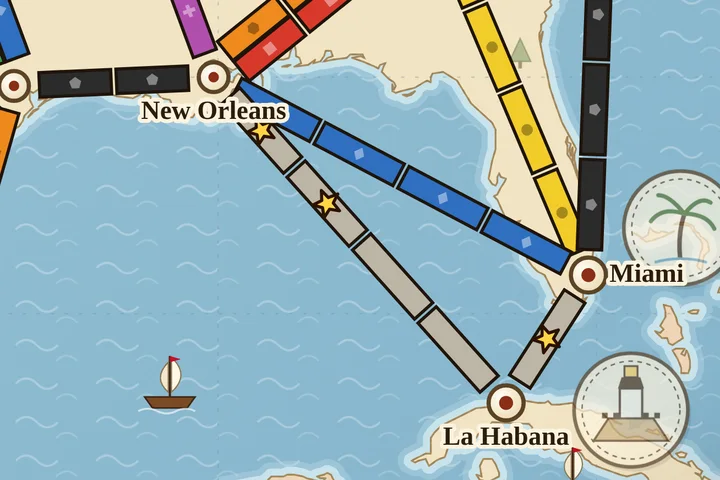
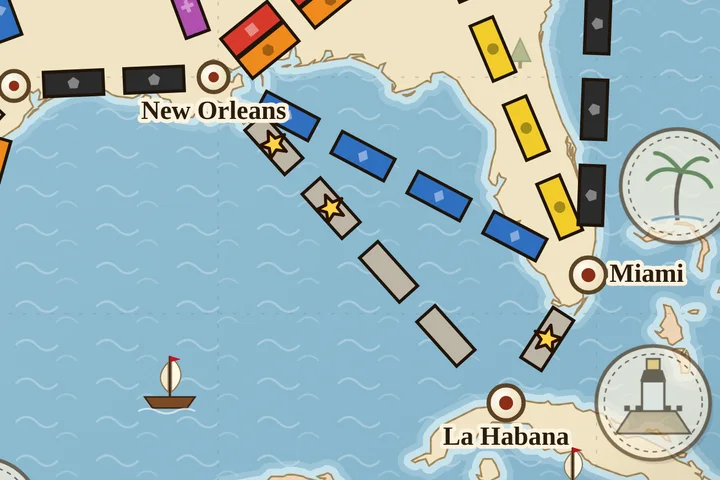
Đường Ray: mọi ô tuyến cùng cỡ, tuyến ngắn/đi qua thành phố khác được uốn cong không đè nhau; chụp lại ảnh luật
Claude-Session: https://claude.ai/code/session_01C6iMujCmX6wKKq45Tr3EAE

diff --git a/games/duong-ray-bac-my/index.html b/games/duong-ray-bac-my/index.html
@@ -1901,13 +1901,64 @@ const LANDMARKS_NA = {
 };
 const LANDMARKS = MAP_ID==='na' ? LANDMARKS_NA : LANDMARKS_EU;
 
+/* ===== Hình học tuyến: mọi ô cùng cỡ; tuyến ngắn hoặc đi xuyên qua thành phố khác sẽ uốn cong ===== */
+const RG_BOX=34, RG_PITCH=37, RG_PAD=11;
+function rgPitch(g,len){ return Math.max(RG_PITCH, Math.min((g.d-2*RG_PAD)/len, RG_PITCH+12)); }
+let RG_CACHE={}, RG_KEY='';
+function rgBase(a,b,h){ /* đường cong bậc 2 từ a sang b, lệch vuông góc h tại giữa */
+  const A=CITIES[a],B=CITIES[b]; const dx=B.x-A.x,dy=B.y-A.y,d=Math.hypot(dx,dy)||1; const nx=-dy/d, ny=dx/d;
+  const cx=(A.x+B.x)/2+nx*h*2, cy=(A.y+B.y)/2+ny*h*2; const N=48, P=[];
+  for(let i=0;i<=N;i++){ const t=i/N, u=1-t; P.push([u*u*A.x+2*u*t*cx+t*t*B.x, u*u*A.y+2*u*t*cy+t*t*B.y]); }
+  return P; }
+function rgLen(P){ let L=0; for(let i=1;i<P.length;i++) L+=Math.hypot(P[i][0]-P[i-1][0],P[i][1]-P[i-1][1]); return L; }
+function rgClear(P,a,b){ let m=1e9; CITIES.forEach((c,i)=>{ if(i===a||i===b) return;
+    const w=c.name.length*8, lx=c.anchor==='start'?c.x+c.dx:c.anchor==='end'?c.x+c.dx-w:c.x+c.dx-w/2, ly=c.y+c.dy-12;
+    for(const p of P){ const dd=Math.hypot(p[0]-c.x,p[1]-c.y); if(dd<m) m=dd;
+      const qx=Math.max(lx,Math.min(p[0],lx+w)), qy=Math.max(ly,Math.min(p[1],ly+16)); const dl=Math.hypot(p[0]-qx,p[1]-qy)+14; if(dl<m) m=dl; } }); return m; }
+function rgShape(a,b,len){
+  const k=Math.min(a,b)+'-'+Math.max(a,b)+'-'+len; if (RG_CACHE[k]) return RG_CACHE[k];
+  const lo=Math.min(a,b), hi=Math.max(a,b); /* tính theo chiều cố định để 2 làn đường đôi giống nhau */
+  const need=len*RG_PITCH+2*RG_PAD;
+  let best={h:0}; const straight=rgBase(lo,hi,0);
+  if (rgLen(straight)<need || rgClear(straight,lo,hi)<22){
+    let cand=null;
+    for (const sg of [1,-1]){ let h=0, P=straight;
+      for(let it=0;it<60;it++){ if(rgLen(P)>=need && rgClear(P,lo,hi)>=36) break; h+=sg*1.5; P=rgBase(lo,hi,h); }
+      const sc=rgClear(P,lo,hi)-Math.abs(h)*.15; if(!cand||sc>cand.sc) cand={h,sc}; }
+    best={h:cand.h}; }
+  return RG_CACHE[k]={h:best.h, lo, hi}; }
+function routeGeom(r){
+  const key=MAP_W+':'+CITIES.map(c=>c.x+','+c.y).join(';'); if(key!==RG_KEY){ RG_KEY=key; RG_CACHE={}; }
+  const sh=rgShape(r.a,r.b,r.len); let P=rgBase(sh.lo,sh.hi,sh.h); if (sh.lo!==r.a) P=P.slice().reverse();
+  const off=(r.lane||0)*7.5*(sh.lo===r.a?1:-1); /* giữ cùng phía như cũ */
+  if (off){ P=P.map((p,i)=>{ const q=P[Math.min(P.length-1,i+1)], o=P[Math.max(0,i-1)]; const tx=q[0]-o[0], ty=q[1]-o[1], tl=Math.hypot(tx,ty)||1; return [p[0]-ty/tl*off, p[1]+tx/tl*off]; }); }
+  const cum=[0]; for(let i=1;i<P.length;i++) cum.push(cum[i-1]+Math.hypot(P[i][0]-P[i-1][0],P[i][1]-P[i-1][1]));
+  const d=cum[cum.length-1];
+  const at=s=>{ s=Math.max(0,Math.min(d,s)); let i=1; while(i<cum.length-1&&cum[i]<s) i++; const t=(s-cum[i-1])/((cum[i]-cum[i-1])||1); const x=P[i-1][0]+(P[i][0]-P[i-1][0])*t, y=P[i-1][1]+(P[i][1]-P[i-1][1])*t; return {x,y,ang:Math.atan2(P[i][1]-P[i-1][1],P[i][0]-P[i-1][0])*180/Math.PI}; };
+  const path=(s0,s1)=>{ const n=Math.max(2,Math.ceil((s1-s0)/6)); let o=''; for(let k=0;k<=n;k++){ const q=at(s0+(s1-s0)*k/n); o+=(k?'L':'M')+q.x.toFixed(1)+','+q.y.toFixed(1); } return o; };
+  const A=at(0), B=at(d); const dx=B.x-A.x, dy=B.y-A.y, dd=Math.hypot(dx,dy)||1;
+  return {ax:A.x, ay:A.y, ux:dx/dd, uy:dy/dd, d, ang:Math.atan2(dy,dx)*180/Math.PI, at, path, curved:!!sh.h}; }
+function trainRun(r, color){ if (FXMODE==='off') return;
+  const layer=document.getElementById('fxl'); if(!layer) return;
+  const g=routeGeom(r); const loco=svgEl('g',{});
+  loco.innerHTML=`<g transform="scale(.9)"><rect x="-14" y="-7" width="20" height="14" rx="6" fill="${color}" stroke="#111" stroke-width="1.4"/><rect x="4" y="-9" width="10" height="18" rx="2" fill="${shade(color,-.3)}" stroke="#111" stroke-width="1.4"/>
+    <rect x="-10" y="-12" width="5" height="6" fill="#222"/><path d="M-14,-6 L-21,0 L-14,6Z" fill="#c9a227" stroke="#111"/><circle cx="-16" cy="0" r="2.2" fill="#fff6a0"/><rect x="7" y="-5" width="4" height="4" fill="#ffe9a8"/></g>`;
+  layer.appendChild(loco);
+  const t0=performance.now(); let lastPuff=0;
+  const step=now=>{
+    const k=Math.min(1,(now-t0)/TRAIN_RUN_MS); const e=k<.5?2*k*k:1-Math.pow(-2*k+2,2)/2; const q=g.at(13+(g.d-26)*e);
+    loco.setAttribute('transform',`translate(${q.x.toFixed(1)},${q.y.toFixed(1)}) rotate(${(q.ang+180).toFixed(1)})`);
+    if(now-lastPuff>70 && k<1){ lastPuff=now; const p=svgEl('circle',{cx:q.x.toFixed(1),cy:(q.y-8).toFixed(1),r:4+Math.random()*3,class:'puff'}); layer.appendChild(p); setTimeout(()=>p.remove(),1300); }
+    if(k<1) requestAnimationFrame(step); else { loco.style.transition='opacity .5s'; loco.style.opacity='0'; setTimeout(()=>loco.remove(),600); }
+  };
+  requestAnimationFrame(step);
+}
 /* Tìm chỗ đặt huy hiệu công trình không đè lên đường ray, thành phố, tên thành phố; không có chỗ thì bỏ */
 let LM_POS={}, LM_KEY='';
 function lmFree(cx,cy,R,placed){
   if (cx<R+4||cy<R+4||cx>MAP_W-R-4||cy>MAP_H-R-4) return false;
   const segD=(px,py,ax,ay,bx,by)=>{const dx=bx-ax,dy=by-ay,L=dx*dx+dy*dy;let t=L?((px-ax)*dx+(py-ay)*dy)/L:0;t=Math.max(0,Math.min(1,t));return Math.hypot(px-ax-t*dx,py-ay-t*dy);};
-  for (const r of ROUTES){ const A=CITIES[r.a],B=CITIES[r.b]; const d=Math.hypot(B.x-A.x,B.y-A.y)||1; const nx=-(B.y-A.y)/d, ny=(B.x-A.x)/d, o=(r.lane||0)*7.5;
-    if (segD(cx,cy,A.x+nx*o,A.y+ny*o,B.x+nx*o,B.y+ny*o) < R+19) return false; }
+  for (const r of ROUTES){ const g=routeGeom(r); for(let s=0;s<=g.d;s+=8){ const q=g.at(s); if (Math.hypot(cx-q.x,cy-q.y) < R+12) return false; } }
   for (const C of CITIES){ if (Math.hypot(cx-C.x,cy-C.y) < R+16) return false;
     const w=C.name.length*8.2, lx=C.anchor==='start'?C.x+C.dx:C.anchor==='end'?C.x+C.dx-w:C.x+C.dx-w/2, ly=C.y+C.dy-13;
     const qx=Math.max(lx,Math.min(cx,lx+w)), qy=Math.max(ly,Math.min(cy,ly+17)); if (Math.hypot(cx-qx,cy-qy) < R+5) return false; }
@@ -2113,19 +2164,19 @@ function routeSym(k,col){
   return k==='loco' ? `<g fill="${f}" stroke="#2a1200" stroke-width=".9" stroke-linejoin="round" pointer-events="none" transform="scale(1.95)">${d}</g>` : `<g fill="${f}" opacity="${o}" pointer-events="none">${d}</g>`;
 }
 function routeSVG(r, afford, now){
-  const g=routeGeom(r); const pad=13; const seg=(g.d-2*pad)/r.len; const w=Math.max(6,seg-3);
+  const g=routeGeom(r); const pad=13; const seg=(g.d-2*pad)/r.len; const w=RG_BOX;
   const owner=G.owner[r.id]; const canClick = owner==null && isMyTurn() && !UIS.stationMode;
   const t=UIS.claimAt[r.id]; const el = t!=null ? now-t : 1e9; const fresh = el<2600 && G.owner[r.id]!=null;
   let s=`<g class="route ${canClick?'clickable':''} ${afford.has(r.id)?'afford':''} ${fresh?'glow':''}" data-id="${r.id}" ${fresh?`style="--gc:${G.players[owner].color};animation-delay:${-el}ms"`:''}>`;
-  s+=`<line x1="${g.ax+g.ux*pad}" y1="${g.ay+g.uy*pad}" x2="${g.ax+g.ux*(g.d-pad)}" y2="${g.ay+g.uy*(g.d-pad)}" stroke="transparent" stroke-width="${HIT_W}"/>`;
+  s+=`<path d="${g.path(pad,g.d-pad)}" fill="none" stroke="transparent" stroke-width="${HIT_W}"/>`;
   const DK = .68; /* mọi đoàn tàu cùng cỡ, vừa làn đường đôi */
-  if (owner!=null){ const x1=(g.ax+g.ux*(pad+2)).toFixed(1), y1=(g.ay+g.uy*(pad+2)).toFixed(1), x2=(g.ax+g.ux*(g.d-pad-2)).toFixed(1), y2=(g.ay+g.uy*(g.d-pad-2)).toFixed(1);
-    s+=`<g class="${fresh?'pop':''}" pointer-events="none"><line x1="${x1}" y1="${y1}" x2="${x2}" y2="${y2}" stroke="#fff" stroke-width="17" stroke-linecap="round" opacity=".95"/><line x1="${x1}" y1="${y1}" x2="${x2}" y2="${y2}" stroke="#111" stroke-width="${(24*DK).toFixed(1)}" stroke-linecap="round"/><line x1="${x1}" y1="${y1}" x2="${x2}" y2="${y2}" stroke="${G.players[owner].color}" stroke-width="6" stroke-linecap="round" opacity=".55"/></g>`; }
+  if (owner!=null){ const PT=rgPitch(g,r.len); const pd=g.path(g.d/2-(r.len*PT)/2+2, g.d/2+(r.len*PT)/2-2);
+    s+=`<g class="${fresh?'pop':''}" pointer-events="none"><path d="${pd}" fill="none" stroke="#fff" stroke-width="17" stroke-linecap="round" opacity=".95"/><path d="${pd}" fill="none" stroke="#111" stroke-width="${(24*DK).toFixed(1)}" stroke-linecap="round"/><path d="${pd}" fill="none" stroke="${G.players[owner].color}" stroke-width="6" stroke-linecap="round" opacity=".55"/></g>`; }
   for (let i=0;i<r.len;i++){
-    const tt=pad+seg*(i+0.5); const cx=(g.ax+g.ux*tt).toFixed(1), cy=(g.ay+g.uy*tt).toFixed(1);
-    s+=`<g transform="translate(${cx},${cy}) rotate(${g.ang.toFixed(1)})">`;
+    const tt=g.d/2+(i+0.5-r.len/2)*rgPitch(g,r.len); const q=g.at(tt); const cx=q.x.toFixed(1), cy=q.y.toFixed(1); let ga=q.ang; if(ga>90) ga-=180; if(ga<-90) ga+=180;
+    s+=`<g transform="translate(${cx},${cy}) rotate(${ga.toFixed(1)})">`;
     if (owner!=null){
-      const col=G.players[owner].color, h=19*DK, W=seg-1.5, win=Math.min(6,W/4.5)*(DK<1?.8:1);
+      const col=G.players[owner].color, h=19*DK, W=RG_BOX+1, win=Math.min(6,W/4.5)*(DK<1?.8:1);
       const delay = fresh ? ((i+.5)/r.len*TRAIN_RUN_MS - el) : 0;
       s+=`<g class="${fresh?'pop':''}" ${fresh?`style="animation-delay:${delay.toFixed(0)}ms"`:''}>
         <rect x="${-W/2}" y="${-h/2}" width="${W}" height="${h}" rx="3.5" fill="${col}" stroke="#0b0b0b" stroke-width="2.6"/>
@@ -2181,8 +2232,8 @@ function beaconSVG(){
   let s=`<g class="beacons ${f.strong?'strong':''}" pointer-events="none" style="animation-delay:${-el.toFixed(0)}ms">`;
   /* các tuyến nên đi: đường ngắn nhất (tuyến của mình = 0, bỏ tuyến người khác) */
   tkPathRoutes(f.a,f.b).forEach(r=>{ const g=routeGeom(r), pad=11;
-    const x1=g.ax+g.ux*pad, y1=g.ay+g.uy*pad, x2=g.ax+g.ux*(g.d-pad), y2=g.ay+g.uy*(g.d-pad);
-    s+=`<line x1="${x1}" y1="${y1}" x2="${x2}" y2="${y2}" stroke="#22c55e" stroke-width="26" stroke-opacity=".28" class="pglow"/><line x1="${x1}" y1="${y1}" x2="${x2}" y2="${y2}" stroke="#4ade80" stroke-width="20" stroke-opacity=".0" class="pglow2"/>`; });
+    const pd=g.path(pad,g.d-pad);
+    s+=`<path d="${pd}" fill="none" stroke="#22c55e" stroke-width="26" stroke-opacity=".28" class="pglow"/><path d="${pd}" fill="none" stroke="#4ade80" stroke-width="20" stroke-opacity=".0" class="pglow2"/>`; });
   [A,B].forEach(C=>{
     s+=`<g transform="translate(${C.x},${C.y})">${[0,1,2].map(k=>`<circle r="16" fill="none" stroke="#22c55e" stroke-width="4" class="wave" style="animation-delay:${(k*450-el).toFixed(0)}ms"/>`).join('')}
       <circle r="15" fill="#22c55e" opacity=".35" class="wcore"/><circle r="9" fill="#fff" stroke="#16a34a" stroke-width="4"/></g>`;
@@ -2511,7 +2562,7 @@ function playFx(f){
     case 'cl': {
       const r=ROUTES[f.r]; const col=G.players[f.p].color; UIS.claimAt[f.r]=performance.now(); renderMap();
       trainRun(r, col); SFX.clack(r.len); Ticker.push(`${esc(who(f.p))} chiếm tuyến <b>${esc(rname(r))}</b> (+${POINTS[r.len]} điểm)`, 'claim'); if (r.len>=3) setTimeout(()=>SFX.whistle(), 350);
-      const g=routeGeom(r); const mx=g.ax+g.ux*g.d/2, my=g.ay+g.uy*g.d/2;
+      const g=routeGeom(r); const mq=g.at(g.d/2), mx=mq.x, my=mq.y;
       if (!document.body.classList.contains('portphone') && !document.body.classList.contains('landphone')) claimMsg(`<b>${esc(who(f.p))}</b> chiếm tuyến ${esc(rname(r))}`, col);
       setTimeout(()=>{ const p=FX.svgPoint(mx,my); if (p){ ptsFly(p.x,p.y,POINTS[r.len],f.p,col); if (FXMODE!=='off' && (r.len>=4 || f.p===ME)) FX.confetti(p.x,p.y, r.len>=4?50:20, [col,'#ffd36b','#fff']); } else releaseScore(f.p); }, TRAIN_RUN_MS-150);
       break; }

diff --git a/games/duong-ray-chau-au/index.html b/games/duong-ray-chau-au/index.html
@@ -1906,13 +1906,64 @@ const LANDMARKS_NA = {
 };
 const LANDMARKS = MAP_ID==='na' ? LANDMARKS_NA : LANDMARKS_EU;
 
+/* ===== Hình học tuyến: mọi ô cùng cỡ; tuyến ngắn hoặc đi xuyên qua thành phố khác sẽ uốn cong ===== */
+const RG_BOX=34, RG_PITCH=37, RG_PAD=11;
+function rgPitch(g,len){ return Math.max(RG_PITCH, Math.min((g.d-2*RG_PAD)/len, RG_PITCH+12)); }
+let RG_CACHE={}, RG_KEY='';
+function rgBase(a,b,h){ /* đường cong bậc 2 từ a sang b, lệch vuông góc h tại giữa */
+  const A=CITIES[a],B=CITIES[b]; const dx=B.x-A.x,dy=B.y-A.y,d=Math.hypot(dx,dy)||1; const nx=-dy/d, ny=dx/d;
+  const cx=(A.x+B.x)/2+nx*h*2, cy=(A.y+B.y)/2+ny*h*2; const N=48, P=[];
+  for(let i=0;i<=N;i++){ const t=i/N, u=1-t; P.push([u*u*A.x+2*u*t*cx+t*t*B.x, u*u*A.y+2*u*t*cy+t*t*B.y]); }
+  return P; }
+function rgLen(P){ let L=0; for(let i=1;i<P.length;i++) L+=Math.hypot(P[i][0]-P[i-1][0],P[i][1]-P[i-1][1]); return L; }
+function rgClear(P,a,b){ let m=1e9; CITIES.forEach((c,i)=>{ if(i===a||i===b) return;
+    const w=c.name.length*8, lx=c.anchor==='start'?c.x+c.dx:c.anchor==='end'?c.x+c.dx-w:c.x+c.dx-w/2, ly=c.y+c.dy-12;
+    for(const p of P){ const dd=Math.hypot(p[0]-c.x,p[1]-c.y); if(dd<m) m=dd;
+      const qx=Math.max(lx,Math.min(p[0],lx+w)), qy=Math.max(ly,Math.min(p[1],ly+16)); const dl=Math.hypot(p[0]-qx,p[1]-qy)+14; if(dl<m) m=dl; } }); return m; }
+function rgShape(a,b,len){
+  const k=Math.min(a,b)+'-'+Math.max(a,b)+'-'+len; if (RG_CACHE[k]) return RG_CACHE[k];
+  const lo=Math.min(a,b), hi=Math.max(a,b); /* tính theo chiều cố định để 2 làn đường đôi giống nhau */
+  const need=len*RG_PITCH+2*RG_PAD;
+  let best={h:0}; const straight=rgBase(lo,hi,0);
+  if (rgLen(straight)<need || rgClear(straight,lo,hi)<22){
+    let cand=null;
+    for (const sg of [1,-1]){ let h=0, P=straight;
+      for(let it=0;it<60;it++){ if(rgLen(P)>=need && rgClear(P,lo,hi)>=36) break; h+=sg*1.5; P=rgBase(lo,hi,h); }
+      const sc=rgClear(P,lo,hi)-Math.abs(h)*.15; if(!cand||sc>cand.sc) cand={h,sc}; }
+    best={h:cand.h}; }
+  return RG_CACHE[k]={h:best.h, lo, hi}; }
+function routeGeom(r){
+  const key=MAP_W+':'+CITIES.map(c=>c.x+','+c.y).join(';'); if(key!==RG_KEY){ RG_KEY=key; RG_CACHE={}; }
+  const sh=rgShape(r.a,r.b,r.len); let P=rgBase(sh.lo,sh.hi,sh.h); if (sh.lo!==r.a) P=P.slice().reverse();
+  const off=(r.lane||0)*7.5*(sh.lo===r.a?1:-1); /* giữ cùng phía như cũ */
+  if (off){ P=P.map((p,i)=>{ const q=P[Math.min(P.length-1,i+1)], o=P[Math.max(0,i-1)]; const tx=q[0]-o[0], ty=q[1]-o[1], tl=Math.hypot(tx,ty)||1; return [p[0]-ty/tl*off, p[1]+tx/tl*off]; }); }
+  const cum=[0]; for(let i=1;i<P.length;i++) cum.push(cum[i-1]+Math.hypot(P[i][0]-P[i-1][0],P[i][1]-P[i-1][1]));
+  const d=cum[cum.length-1];
+  const at=s=>{ s=Math.max(0,Math.min(d,s)); let i=1; while(i<cum.length-1&&cum[i]<s) i++; const t=(s-cum[i-1])/((cum[i]-cum[i-1])||1); const x=P[i-1][0]+(P[i][0]-P[i-1][0])*t, y=P[i-1][1]+(P[i][1]-P[i-1][1])*t; return {x,y,ang:Math.atan2(P[i][1]-P[i-1][1],P[i][0]-P[i-1][0])*180/Math.PI}; };
+  const path=(s0,s1)=>{ const n=Math.max(2,Math.ceil((s1-s0)/6)); let o=''; for(let k=0;k<=n;k++){ const q=at(s0+(s1-s0)*k/n); o+=(k?'L':'M')+q.x.toFixed(1)+','+q.y.toFixed(1); } return o; };
+  const A=at(0), B=at(d); const dx=B.x-A.x, dy=B.y-A.y, dd=Math.hypot(dx,dy)||1;
+  return {ax:A.x, ay:A.y, ux:dx/dd, uy:dy/dd, d, ang:Math.atan2(dy,dx)*180/Math.PI, at, path, curved:!!sh.h}; }
+function trainRun(r, color){ if (FXMODE==='off') return;
+  const layer=document.getElementById('fxl'); if(!layer) return;
+  const g=routeGeom(r); const loco=svgEl('g',{});
+  loco.innerHTML=`<g transform="scale(.9)"><rect x="-14" y="-7" width="20" height="14" rx="6" fill="${color}" stroke="#111" stroke-width="1.4"/><rect x="4" y="-9" width="10" height="18" rx="2" fill="${shade(color,-.3)}" stroke="#111" stroke-width="1.4"/>
+    <rect x="-10" y="-12" width="5" height="6" fill="#222"/><path d="M-14,-6 L-21,0 L-14,6Z" fill="#c9a227" stroke="#111"/><circle cx="-16" cy="0" r="2.2" fill="#fff6a0"/><rect x="7" y="-5" width="4" height="4" fill="#ffe9a8"/></g>`;
+  layer.appendChild(loco);
+  const t0=performance.now(); let lastPuff=0;
+  const step=now=>{
+    const k=Math.min(1,(now-t0)/TRAIN_RUN_MS); const e=k<.5?2*k*k:1-Math.pow(-2*k+2,2)/2; const q=g.at(13+(g.d-26)*e);
+    loco.setAttribute('transform',`translate(${q.x.toFixed(1)},${q.y.toFixed(1)}) rotate(${(q.ang+180).toFixed(1)})`);
+    if(now-lastPuff>70 && k<1){ lastPuff=now; const p=svgEl('circle',{cx:q.x.toFixed(1),cy:(q.y-8).toFixed(1),r:4+Math.random()*3,class:'puff'}); layer.appendChild(p); setTimeout(()=>p.remove(),1300); }
+    if(k<1) requestAnimationFrame(step); else { loco.style.transition='opacity .5s'; loco.style.opacity='0'; setTimeout(()=>loco.remove(),600); }
+  };
+  requestAnimationFrame(step);
+}
 /* Tìm chỗ đặt huy hiệu công trình không đè lên đường ray, thành phố, tên thành phố; không có chỗ thì bỏ */
 let LM_POS={}, LM_KEY='';
 function lmFree(cx,cy,R,placed){
   if (cx<R+4||cy<R+4||cx>MAP_W-R-4||cy>MAP_H-R-4) return false;
   const segD=(px,py,ax,ay,bx,by)=>{const dx=bx-ax,dy=by-ay,L=dx*dx+dy*dy;let t=L?((px-ax)*dx+(py-ay)*dy)/L:0;t=Math.max(0,Math.min(1,t));return Math.hypot(px-ax-t*dx,py-ay-t*dy);};
-  for (const r of ROUTES){ const A=CITIES[r.a],B=CITIES[r.b]; const d=Math.hypot(B.x-A.x,B.y-A.y)||1; const nx=-(B.y-A.y)/d, ny=(B.x-A.x)/d, o=(r.lane||0)*7.5;
-    if (segD(cx,cy,A.x+nx*o,A.y+ny*o,B.x+nx*o,B.y+ny*o) < R+19) return false; }
+  for (const r of ROUTES){ const g=routeGeom(r); for(let s=0;s<=g.d;s+=8){ const q=g.at(s); if (Math.hypot(cx-q.x,cy-q.y) < R+12) return false; } }
   for (const C of CITIES){ if (Math.hypot(cx-C.x,cy-C.y) < R+16) return false;
     const w=C.name.length*8.2, lx=C.anchor==='start'?C.x+C.dx:C.anchor==='end'?C.x+C.dx-w:C.x+C.dx-w/2, ly=C.y+C.dy-13;
     const qx=Math.max(lx,Math.min(cx,lx+w)), qy=Math.max(ly,Math.min(cy,ly+17)); if (Math.hypot(cx-qx,cy-qy) < R+5) return false; }
@@ -2118,19 +2169,19 @@ function routeSym(k,col){
   return k==='loco' ? `<g fill="${f}" stroke="#2a1200" stroke-width=".9" stroke-linejoin="round" pointer-events="none" transform="scale(1.95)">${d}</g>` : `<g fill="${f}" opacity="${o}" pointer-events="none">${d}</g>`;
 }
 function routeSVG(r, afford, now){
-  const g=routeGeom(r); const pad=13; const seg=(g.d-2*pad)/r.len; const w=Math.max(6,seg-3);
+  const g=routeGeom(r); const pad=13; const seg=(g.d-2*pad)/r.len; const w=RG_BOX;
   const owner=G.owner[r.id]; const canClick = owner==null && isMyTurn() && !UIS.stationMode;
   const t=UIS.claimAt[r.id]; const el = t!=null ? now-t : 1e9; const fresh = el<2600 && G.owner[r.id]!=null;
   let s=`<g class="route ${canClick?'clickable':''} ${afford.has(r.id)?'afford':''} ${fresh?'glow':''}" data-id="${r.id}" ${fresh?`style="--gc:${G.players[owner].color};animation-delay:${-el}ms"`:''}>`;
-  s+=`<line x1="${g.ax+g.ux*pad}" y1="${g.ay+g.uy*pad}" x2="${g.ax+g.ux*(g.d-pad)}" y2="${g.ay+g.uy*(g.d-pad)}" stroke="transparent" stroke-width="${HIT_W}"/>`;
+  s+=`<path d="${g.path(pad,g.d-pad)}" fill="none" stroke="transparent" stroke-width="${HIT_W}"/>`;
   const DK = .68; /* mọi đoàn tàu cùng cỡ, vừa làn đường đôi */
-  if (owner!=null){ const x1=(g.ax+g.ux*(pad+2)).toFixed(1), y1=(g.ay+g.uy*(pad+2)).toFixed(1), x2=(g.ax+g.ux*(g.d-pad-2)).toFixed(1), y2=(g.ay+g.uy*(g.d-pad-2)).toFixed(1);
-    s+=`<g class="${fresh?'pop':''}" pointer-events="none"><line x1="${x1}" y1="${y1}" x2="${x2}" y2="${y2}" stroke="#fff" stroke-width="17" stroke-linecap="round" opacity=".95"/><line x1="${x1}" y1="${y1}" x2="${x2}" y2="${y2}" stroke="#111" stroke-width="${(24*DK).toFixed(1)}" stroke-linecap="round"/><line x1="${x1}" y1="${y1}" x2="${x2}" y2="${y2}" stroke="${G.players[owner].color}" stroke-width="6" stroke-linecap="round" opacity=".55"/></g>`; }
+  if (owner!=null){ const PT=rgPitch(g,r.len); const pd=g.path(g.d/2-(r.len*PT)/2+2, g.d/2+(r.len*PT)/2-2);
+    s+=`<g class="${fresh?'pop':''}" pointer-events="none"><path d="${pd}" fill="none" stroke="#fff" stroke-width="17" stroke-linecap="round" opacity=".95"/><path d="${pd}" fill="none" stroke="#111" stroke-width="${(24*DK).toFixed(1)}" stroke-linecap="round"/><path d="${pd}" fill="none" stroke="${G.players[owner].color}" stroke-width="6" stroke-linecap="round" opacity=".55"/></g>`; }
   for (let i=0;i<r.len;i++){
-    const tt=pad+seg*(i+0.5); const cx=(g.ax+g.ux*tt).toFixed(1), cy=(g.ay+g.uy*tt).toFixed(1);
-    s+=`<g transform="translate(${cx},${cy}) rotate(${g.ang.toFixed(1)})">`;
+    const tt=g.d/2+(i+0.5-r.len/2)*rgPitch(g,r.len); const q=g.at(tt); const cx=q.x.toFixed(1), cy=q.y.toFixed(1); let ga=q.ang; if(ga>90) ga-=180; if(ga<-90) ga+=180;
+    s+=`<g transform="translate(${cx},${cy}) rotate(${ga.toFixed(1)})">`;
     if (owner!=null){
-      const col=G.players[owner].color, h=19*DK, W=seg-1.5, win=Math.min(6,W/4.5)*(DK<1?.8:1);
+      const col=G.players[owner].color, h=19*DK, W=RG_BOX+1, win=Math.min(6,W/4.5)*(DK<1?.8:1);
       const delay = fresh ? ((i+.5)/r.len*TRAIN_RUN_MS - el) : 0;
       s+=`<g class="${fresh?'pop':''}" ${fresh?`style="animation-delay:${delay.toFixed(0)}ms"`:''}>
         <rect x="${-W/2}" y="${-h/2}" width="${W}" height="${h}" rx="3.5" fill="${col}" stroke="#0b0b0b" stroke-width="2.6"/>
@@ -2186,8 +2237,8 @@ function beaconSVG(){
   let s=`<g class="beacons ${f.strong?'strong':''}" pointer-events="none" style="animation-delay:${-el.toFixed(0)}ms">`;
   /* các tuyến nên đi: đường ngắn nhất (tuyến của mình = 0, bỏ tuyến người khác) */
   tkPathRoutes(f.a,f.b).forEach(r=>{ const g=routeGeom(r), pad=11;
-    const x1=g.ax+g.ux*pad, y1=g.ay+g.uy*pad, x2=g.ax+g.ux*(g.d-pad), y2=g.ay+g.uy*(g.d-pad);
-    s+=`<line x1="${x1}" y1="${y1}" x2="${x2}" y2="${y2}" stroke="#22c55e" stroke-width="26" stroke-opacity=".28" class="pglow"/><line x1="${x1}" y1="${y1}" x2="${x2}" y2="${y2}" stroke="#4ade80" stroke-width="20" stroke-opacity=".0" class="pglow2"/>`; });
+    const pd=g.path(pad,g.d-pad);
+    s+=`<path d="${pd}" fill="none" stroke="#22c55e" stroke-width="26" stroke-opacity=".28" class="pglow"/><path d="${pd}" fill="none" stroke="#4ade80" stroke-width="20" stroke-opacity=".0" class="pglow2"/>`; });
   [A,B].forEach(C=>{
     s+=`<g transform="translate(${C.x},${C.y})">${[0,1,2].map(k=>`<circle r="16" fill="none" stroke="#22c55e" stroke-width="4" class="wave" style="animation-delay:${(k*450-el).toFixed(0)}ms"/>`).join('')}
       <circle r="15" fill="#22c55e" opacity=".35" class="wcore"/><circle r="9" fill="#fff" stroke="#16a34a" stroke-width="4"/></g>`;
@@ -2516,7 +2567,7 @@ function playFx(f){
     case 'cl': {
       const r=ROUTES[f.r]; const col=G.players[f.p].color; UIS.claimAt[f.r]=performance.now(); renderMap();
       trainRun(r, col); SFX.clack(r.len); Ticker.push(`${esc(who(f.p))} chiếm tuyến <b>${esc(rname(r))}</b> (+${POINTS[r.len]} điểm)`, 'claim'); if (r.len>=3) setTimeout(()=>SFX.whistle(), 350);
-      const g=routeGeom(r); const mx=g.ax+g.ux*g.d/2, my=g.ay+g.uy*g.d/2;
+      const g=routeGeom(r); const mq=g.at(g.d/2), mx=mq.x, my=mq.y;
       if (!document.body.classList.contains('portphone') && !document.body.classList.contains('landphone')) claimMsg(`<b>${esc(who(f.p))}</b> chiếm tuyến ${esc(rname(r))}`, col);
       setTimeout(()=>{ const p=FX.svgPoint(mx,my); if (p){ ptsFly(p.x,p.y,POINTS[r.len],f.p,col); if (FXMODE!=='off' && (r.len>=4 || f.p===ME)) FX.confetti(p.x,p.y, r.len>=4?50:20, [col,'#ffd36b','#fff']); } else releaseScore(f.p); }, TRAIN_RUN_MS-150);
       break; }

diff --git a/games/duong-ray-bac-my/luat.html b/games/duong-ray-bac-my/luat.html
@@ -122,7 +122,7 @@ footer{text-align:center;color:#e9d6ae;font-size:14px;margin-top:10px}
 <p>Bạn và các đối thủ thi nhau xây mạng lưới đường sắt khắp Bắc Mỹ. Mỗi lượt bạn gom bài toa tàu cùng màu để chiếm các tuyến nối giữa hai thành phố, ghi điểm ngay khi chiếm. Bạn còn giữ các <b>vé hành trình</b>: nối được hai thành phố trên vé bằng tàu của mình thì cộng điểm, không nối được thì bị trừ.</p>
 <p>Bản đồ Bắc Mỹ có <b>39 thành phố</b>, 104 làn tuyến (trong đó 21 cặp đường đôi), <b>9 đường hầm</b> và <b>2 tuyến phà</b>. Tuyến dài nhất dài 7 ô.</p>
 <div class="note"><b>Khác với hộp Ticket to Ride USA gốc:</b> bản Bắc Mỹ trên web dùng chung bộ luật đầy đủ với bản Châu Âu, nên vẫn có đường hầm và phà (sang La Habana), nhưng <b>không có nhà ga</b>. Mỗi người nhận 1 vé dài và 3 vé thường lúc đầu.</div>
-<img class="shot" src="assets/rules/ui.webp?v=1" alt="Màn hình chơi Đường Ray Bắc Mỹ" loading="lazy">
+<img class="shot" src="assets/rules/ui.webp?v=7" alt="Màn hình chơi Đường Ray Bắc Mỹ" loading="lazy">
 <p class="cap">Màn hình chơi: người chơi ở trên, bản đồ ở giữa, bên phải là chỗ lấy bài, vé của bạn và nhật ký.</p></section><section class="box" id="thanh-phan"><h2><span class="no">2</span>Thành phần</h2>
 <div class="tw"><table class="t">
 <tr><th>Thành phần</th><th>Số lượng và công dụng</th></tr>
@@ -166,18 +166,18 @@ footer{text-align:center;color:#e9d6ae;font-size:14px;margin-top:10px}
 </ul>
 <div class="pts" style="--n:7"><div><span class="len"><i></i></span><b>1 ô</b><strong>1</strong><b>điểm</b></div><div><span class="len"><i></i><i></i></span><b>2 ô</b><strong>2</strong><b>điểm</b></div><div><span class="len"><i></i><i></i><i></i></span><b>3 ô</b><strong>4</strong><b>điểm</b></div><div><span class="len"><i></i><i></i><i></i><i></i></span><b>4 ô</b><strong>7</strong><b>điểm</b></div><div><span class="len"><i></i><i></i><i></i><i></i><i></i></span><b>5 ô</b><strong>10</strong><b>điểm</b></div><div><span class="len"><i></i><i></i><i></i><i></i><i></i><i></i></span><b>6 ô</b><strong>15</strong><b>điểm</b></div><div><span class="len"><i></i><i></i><i></i><i></i><i></i><i></i><i></i></span><b>7 ô</b><strong>18</strong><b>điểm</b></div></div>
 <div class="fig">
-  <div><img class="shot" src="assets/rules/claim.webp?v=1" alt="" loading="lazy"><p class="cap">Tuyến Los Angeles–El Paso (Xanh lá, 4 ô) đã bị chiếm: đoàn tàu của người chơi Đỏ nằm đè lên tuyến.</p></div>
-  <div class="vd" style="margin:0">Để chiếm tuyến Los Angeles–El Paso màu Xanh lá dài 4 ô, bạn đánh 3 lá Xanh lá và 1 Đầu máy. Bạn đặt 4 toa, ghi ngay 7 điểm và còn 41 toa.
-  <div class="hand"><figure class="tc sm"><img src="../../railart/cards/green.webp" alt="Xanh lá" loading="lazy"></figure><figure class="tc sm"><img src="../../railart/cards/green.webp" alt="Xanh lá" loading="lazy"></figure><figure class="tc sm"><img src="../../railart/cards/green.webp" alt="Xanh lá" loading="lazy"></figure><figure class="tc sm"><img src="../../railart/cards/loco.webp" alt="Đầu máy" loading="lazy"></figure></div></div>
+  <div><img class="shot" src="assets/rules/claim.webp?v=7" alt="" loading="lazy"><p class="cap">Tuyến El Paso–Dallas (Vàng, 4 ô) đã bị chiếm: đoàn tàu của người chơi Đỏ nằm đè lên tuyến.</p></div>
+  <div class="vd" style="margin:0">Để chiếm tuyến El Paso–Dallas màu Vàng dài 4 ô, bạn đánh 3 lá Vàng và 1 Đầu máy. Bạn đặt 4 toa, ghi ngay 7 điểm và còn 41 toa.
+  <div class="hand"><figure class="tc sm"><img src="../../railart/cards/yellow.webp" alt="Vàng" loading="lazy"></figure><figure class="tc sm"><img src="../../railart/cards/yellow.webp" alt="Vàng" loading="lazy"></figure><figure class="tc sm"><img src="../../railart/cards/yellow.webp" alt="Vàng" loading="lazy"></figure><figure class="tc sm"><img src="../../railart/cards/loco.webp" alt="Đầu máy" loading="lazy"></figure></div></div>
 </div>
 <div class="fig">
-  <div><img class="shot" src="assets/rules/gray.webp?v=1" alt="" loading="lazy"><p class="cap">Tuyến xám Phoenix–Santa Fe dài 3 ô.</p></div>
+  <div><img class="shot" src="assets/rules/gray.webp?v=7" alt="" loading="lazy"><p class="cap">Tuyến xám Phoenix–Santa Fe dài 3 ô.</p></div>
   <div class="vd" style="margin:0">Tuyến xám Phoenix–Santa Fe dài 3 ô trả bằng 3 lá Vàng, hoặc 3 lá Đen… miễn cùng một màu. Không được trả 2 lá Vàng + 1 lá Đen.
   <div class="hand"><span class="lbl">Được:</span><figure class="tc sm"><img src="../../railart/cards/yellow.webp" alt="Vàng" loading="lazy"></figure><figure class="tc sm"><img src="../../railart/cards/yellow.webp" alt="Vàng" loading="lazy"></figure><figure class="tc sm"><img src="../../railart/cards/yellow.webp" alt="Vàng" loading="lazy"></figure></div></div>
 </div>
 <h4 style="margin:14px 0 4px;color:#7a1a36;font-size:19px">Đường đôi</h4>
 <div class="fig">
-  <div><img class="shot" src="assets/rules/dbl.webp?v=1" alt="" loading="lazy"><p class="cap">Đường đôi San Francisco–Los Angeles: hai làn song song, làn Trắng và làn Đỏ.</p></div>
+  <div><img class="shot" src="assets/rules/dbl.webp?v=7" alt="" loading="lazy"><p class="cap">Đường đôi San Francisco–Los Angeles: hai làn song song, làn Trắng và làn Đỏ.</p></div>
   <div><ul>
    <li>Một người <b>không được chiếm cả hai làn</b> của cùng một đường đôi.</li>
    <li>Chơi <b>2 hoặc 3 người</b>: một làn đã bị chiếm thì làn còn lại đóng với mọi người.</li>
@@ -187,7 +187,7 @@ footer{text-align:center;color:#e9d6ae;font-size:14px;margin-top:10px}
 
 <h3 id="duong-ham">Đường hầm</h3>
 <div class="fig">
-  <div><img class="shot" src="assets/rules/tunnel.webp?v=1" alt="" loading="lazy"><p class="cap">Đường hầm có viền <b>nét đứt</b>, ví dụ tuyến Vancouver–Calgary (Cam, 3 ô).</p></div>
+  <div><img class="shot" src="assets/rules/tunnel.webp?v=7" alt="" loading="lazy"><p class="cap">Đường hầm có viền <b>nét đứt</b>, ví dụ tuyến Vancouver–Calgary (Cam, 3 ô).</p></div>
   <div><ol>
    <li>Đánh bộ bài như chiếm tuyến thường.</li>
    <li>Máy lật <b>3 lá</b> trên cùng chồng bài úp.</li>
@@ -207,7 +207,7 @@ footer{text-align:center;color:#e9d6ae;font-size:14px;margin-top:10px}
 
 <h3 id="pha">Phà</h3>
 <div class="fig">
-  <div><img class="shot" src="assets/rules/ferry.webp?v=1" alt="" loading="lazy"><p class="cap">Tuyến phà New Orleans–La Habana dài 4 ô, có 2 ô in <b>ngôi sao Đầu máy</b>.</p></div>
+  <div><img class="shot" src="assets/rules/ferry.webp?v=7" alt="" loading="lazy"><p class="cap">Tuyến phà New Orleans–La Habana dài 4 ô, có 2 ô in <b>ngôi sao Đầu máy</b>.</p></div>
   <div><ul>
    <li>Phà là tuyến vượt biển. Mỗi ô có ngôi sao cần <b>1 lá Đầu máy</b>.</li>
    <li>Các ô còn lại trả bằng bài cùng một màu (phà luôn là tuyến xám).</li>

diff --git a/games/duong-ray-chau-au/luat.html b/games/duong-ray-chau-au/luat.html
@@ -122,7 +122,7 @@ footer{text-align:center;color:#e9d6ae;font-size:14px;margin-top:10px}
 <p>Bạn và các đối thủ thi nhau xây mạng lưới đường sắt khắp châu Âu. Mỗi lượt bạn gom bài toa tàu cùng màu để chiếm các tuyến nối giữa hai thành phố, ghi điểm ngay khi chiếm. Bạn còn giữ các <b>vé hành trình</b>: nối được hai thành phố trên vé bằng tàu của mình thì cộng điểm, không nối được thì bị trừ.</p>
 <p>Bản đồ châu Âu có <b>49 thành phố</b>, 106 làn tuyến (trong đó 12 cặp đường đôi), <b>10 đường hầm</b> và <b>15 tuyến phà</b>. Tuyến dài nhất dài 5 ô.</p>
 
-<img class="shot" src="assets/rules/ui.webp?v=1" alt="Màn hình chơi Đường Ray Châu Âu" loading="lazy">
+<img class="shot" src="assets/rules/ui.webp?v=7" alt="Màn hình chơi Đường Ray Châu Âu" loading="lazy">
 <p class="cap">Màn hình chơi: người chơi ở trên, bản đồ ở giữa, bên phải là chỗ lấy bài, vé của bạn và nhật ký.</p></section><section class="box" id="thanh-phan"><h2><span class="no">2</span>Thành phần</h2>
 <div class="tw"><table class="t">
 <tr><th>Thành phần</th><th>Số lượng và công dụng</th></tr>
@@ -193,18 +193,18 @@ footer{text-align:center;color:#e9d6ae;font-size:14px;margin-top:10px}
 </ul>
 <div class="pts" style="--n:5"><div><span class="len"><i></i></span><b>1 ô</b><strong>1</strong><b>điểm</b></div><div><span class="len"><i></i><i></i></span><b>2 ô</b><strong>2</strong><b>điểm</b></div><div><span class="len"><i></i><i></i><i></i></span><b>3 ô</b><strong>4</strong><b>điểm</b></div><div><span class="len"><i></i><i></i><i></i><i></i></span><b>4 ô</b><strong>7</strong><b>điểm</b></div><div><span class="len"><i></i><i></i><i></i><i></i><i></i></span><b>5 ô</b><strong>10</strong><b>điểm</b></div></div>
 <div class="fig">
-  <div><img class="shot" src="assets/rules/claim.webp?v=1" alt="" loading="lazy"><p class="cap">Tuyến Paris–Marseille (Tím, 4 ô) đã bị chiếm: đoàn tàu của người chơi Đỏ nằm đè lên tuyến.</p></div>
+  <div><img class="shot" src="assets/rules/claim.webp?v=7" alt="" loading="lazy"><p class="cap">Tuyến Paris–Marseille (Tím, 4 ô) đã bị chiếm: đoàn tàu của người chơi Đỏ nằm đè lên tuyến.</p></div>
   <div class="vd" style="margin:0">Để chiếm tuyến Paris–Marseille màu Tím dài 4 ô, bạn đánh 3 lá Tím và 1 Đầu máy. Bạn đặt 4 toa, ghi ngay 7 điểm và còn 41 toa.
   <div class="hand"><figure class="tc sm"><img src="../../railart/cards/purple.webp" alt="Tím" loading="lazy"></figure><figure class="tc sm"><img src="../../railart/cards/purple.webp" alt="Tím" loading="lazy"></figure><figure class="tc sm"><img src="../../railart/cards/purple.webp" alt="Tím" loading="lazy"></figure><figure class="tc sm"><img src="../../railart/cards/loco.webp" alt="Đầu máy" loading="lazy"></figure></div></div>
 </div>
 <div class="fig">
-  <div><img class="shot" src="assets/rules/gray.webp?v=1" alt="" loading="lazy"><p class="cap">Tuyến xám Amsterdam–Frankfurt dài 2 ô.</p></div>
+  <div><img class="shot" src="assets/rules/gray.webp?v=7" alt="" loading="lazy"><p class="cap">Tuyến xám Amsterdam–Frankfurt dài 2 ô.</p></div>
   <div class="vd" style="margin:0">Tuyến xám Amsterdam–Frankfurt dài 2 ô trả bằng 2 lá Vàng, hoặc 2 lá Đen… miễn cùng một màu. Không được trả 1 lá Vàng + 1 lá Đen.
   <div class="hand"><span class="lbl">Được:</span><figure class="tc sm"><img src="../../railart/cards/yellow.webp" alt="Vàng" loading="lazy"></figure><figure class="tc sm"><img src="../../railart/cards/yellow.webp" alt="Vàng" loading="lazy"></figure></div></div>
 </div>
 <h4 style="margin:14px 0 4px;color:#7a1a36;font-size:19px">Đường đôi</h4>
 <div class="fig">
-  <div><img class="shot" src="assets/rules/dbl.webp?v=1" alt="" loading="lazy"><p class="cap">Đường đôi Madrid–Barcelona: hai làn song song, làn Trắng và làn Đỏ.</p></div>
+  <div><img class="shot" src="assets/rules/dbl.webp?v=7" alt="" loading="lazy"><p class="cap">Đường đôi Madrid–Barcelona: hai làn song song, làn Trắng và làn Đỏ.</p></div>
   <div><ul>
    <li>Một người <b>không được chiếm cả hai làn</b> của cùng một đường đôi.</li>
    <li>Chơi <b>2 hoặc 3 người</b>: một làn đã bị chiếm thì làn còn lại đóng với mọi người.</li>
@@ -214,7 +214,7 @@ footer{text-align:center;color:#e9d6ae;font-size:14px;margin-top:10px}
 
 <h3 id="duong-ham">Đường hầm</h3>
 <div class="fig">
-  <div><img class="shot" src="assets/rules/tunnel.webp?v=1" alt="" loading="lazy"><p class="cap">Đường hầm có viền <b>nét đứt</b>, ví dụ tuyến Barcelona–Bordeaux (Xanh dương, 3 ô).</p></div>
+  <div><img class="shot" src="assets/rules/tunnel.webp?v=7" alt="" loading="lazy"><p class="cap">Đường hầm có viền <b>nét đứt</b>, ví dụ tuyến Barcelona–Bordeaux (Xanh dương, 3 ô).</p></div>
   <div><ol>
    <li>Đánh bộ bài như chiếm tuyến thường.</li>
    <li>Máy lật <b>3 lá</b> trên cùng chồng bài úp.</li>
@@ -234,7 +234,7 @@ footer{text-align:center;color:#e9d6ae;font-size:14px;margin-top:10px}
 
 <h3 id="pha">Phà</h3>
 <div class="fig">
-  <div><img class="shot" src="assets/rules/ferry.webp?v=1" alt="" loading="lazy"><p class="cap">Tuyến phà London–Amsterdam dài 2 ô, có 2 ô in <b>ngôi sao Đầu máy</b>.</p></div>
+  <div><img class="shot" src="assets/rules/ferry.webp?v=7" alt="" loading="lazy"><p class="cap">Tuyến phà London–Amsterdam dài 2 ô, có 2 ô in <b>ngôi sao Đầu máy</b>.</p></div>
   <div><ul>
    <li>Phà là tuyến vượt biển. Mỗi ô có ngôi sao cần <b>1 lá Đầu máy</b>.</li>
    <li>Các ô còn lại trả bằng bài cùng một màu (phà luôn là tuyến xám).</li>
@@ -250,7 +250,7 @@ footer{text-align:center;color:#e9d6ae;font-size:14px;margin-top:10px}
 
 <h3 id="nha-ga">Việc 4: xây nhà ga</h3>
 <div class="fig">
-  <div><img class="shot" src="assets/rules/station.webp?v=1" alt="" loading="lazy"><p class="cap">Nhà ga Đỏ ở Lisboa. Tuyến Lisboa–Madrid là của người Xanh, hai tuyến Đỏ nằm hai bên.</p></div>
+  <div><img class="shot" src="assets/rules/station.webp?v=7" alt="" loading="lazy"><p class="cap">Nhà ga Đỏ ở Lisboa. Tuyến Lisboa–Madrid là của người Xanh, hai tuyến Đỏ nằm hai bên.</p></div>
   <div><ul>
    <li>Đặt nhà ga lên một thành phố <b>chưa có ga</b> nào. Không cần có tuyến của bạn ở đó.</li>
    <li>Giá tăng dần: ga thứ 1 tốn <b>1 lá</b>, ga thứ 2 tốn <b>2 lá cùng màu</b>, ga thứ 3 tốn <b>3 lá cùng màu</b>. Đầu máy thay được.</li>
